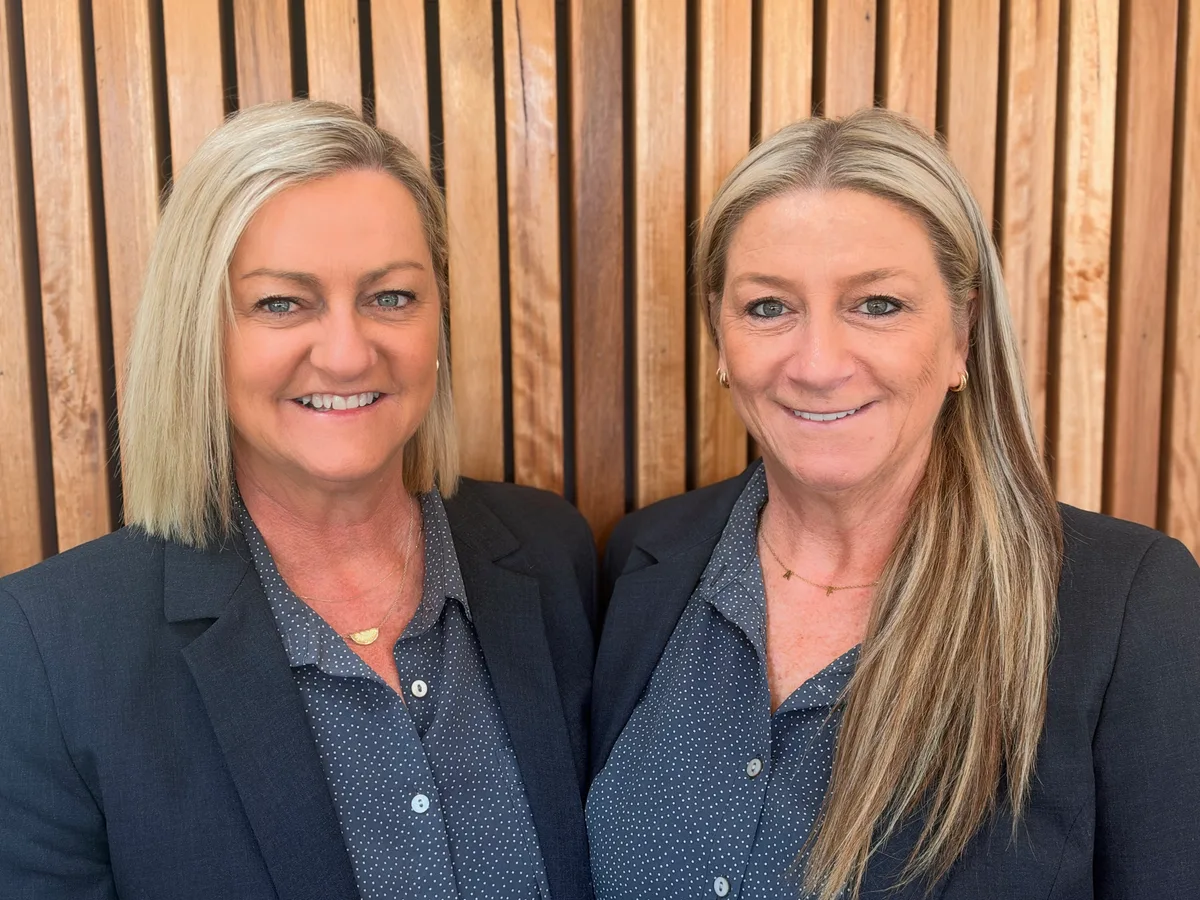
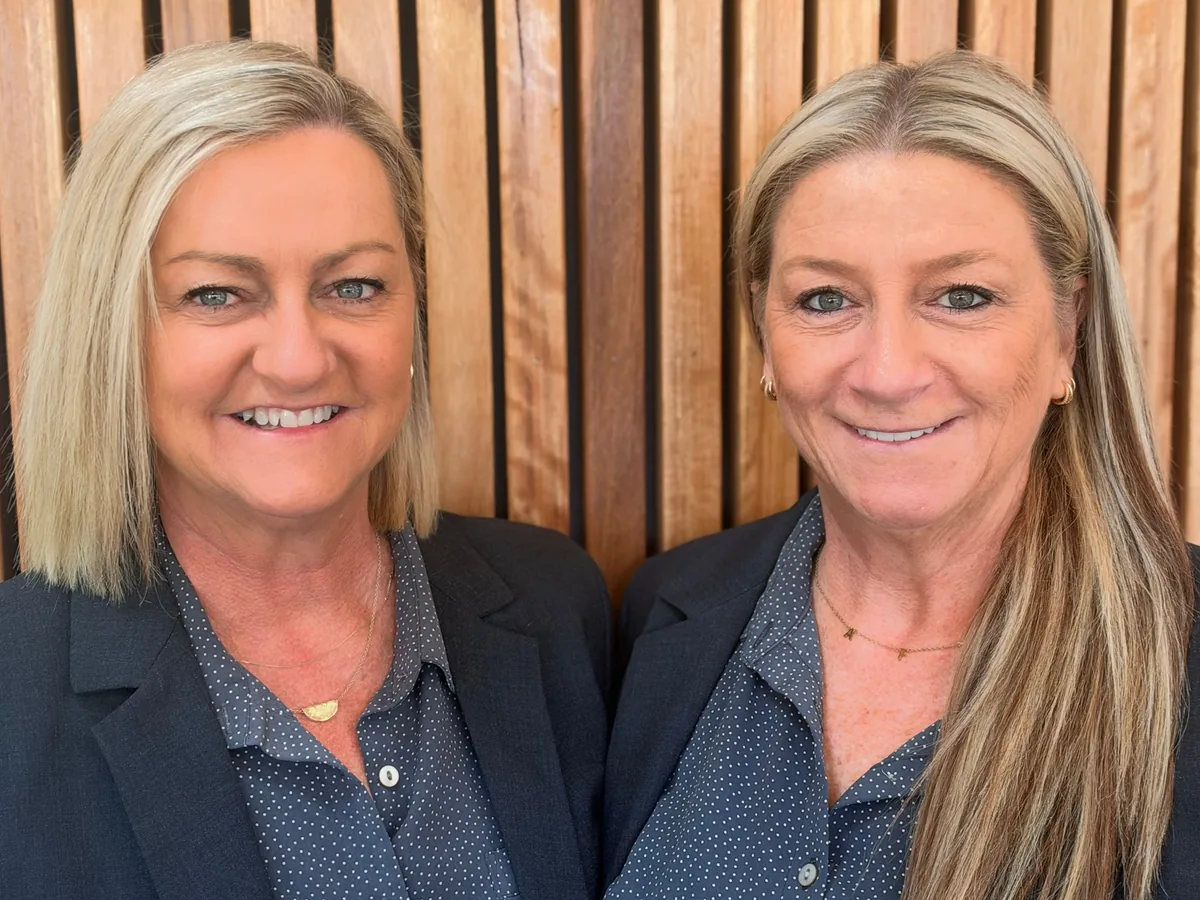
Tighter crop for Brooke and Kim's photo, Contact us link in the booking box

diff --git a/content/INVENTORY.md b/content/INVENTORY.md
@@ -238,7 +238,8 @@ Rollback point: git tag `before-team-photos`.
    close to the same height and there is a little space above the head. Alt text is each person's full name.
    Jennifer's photo was taken too close to fit this shape, so the timber wall and shirt edge are extended about 8% at each side by
    copying the neighbouring part of the same photo. The face is not changed.
-3. **Brooke and Kim** is 1200 x 900 (4:3), one photo, captioned "Brooke and Kim". Alt text: "Brooke and Kim, admin team".
+3. **Brooke and Kim** is 1200 x 900 (4:3), one photo, captioned "Brooke and Kim". Alt text: "Brooke and Kim, admin team". Cropped tighter the same day, so the space
+   above their heads matches the other photos. Their heads stay smaller, as both people have to fit.
 4. **Home:** no team photos (a photo row was added, then removed the same day).
 5. **About, "Meet our Staff"**: the original card layout, with the photos in place of the person icon placeholders. The administration
    team card keeps its place, with the photo at the top above the blue box.
